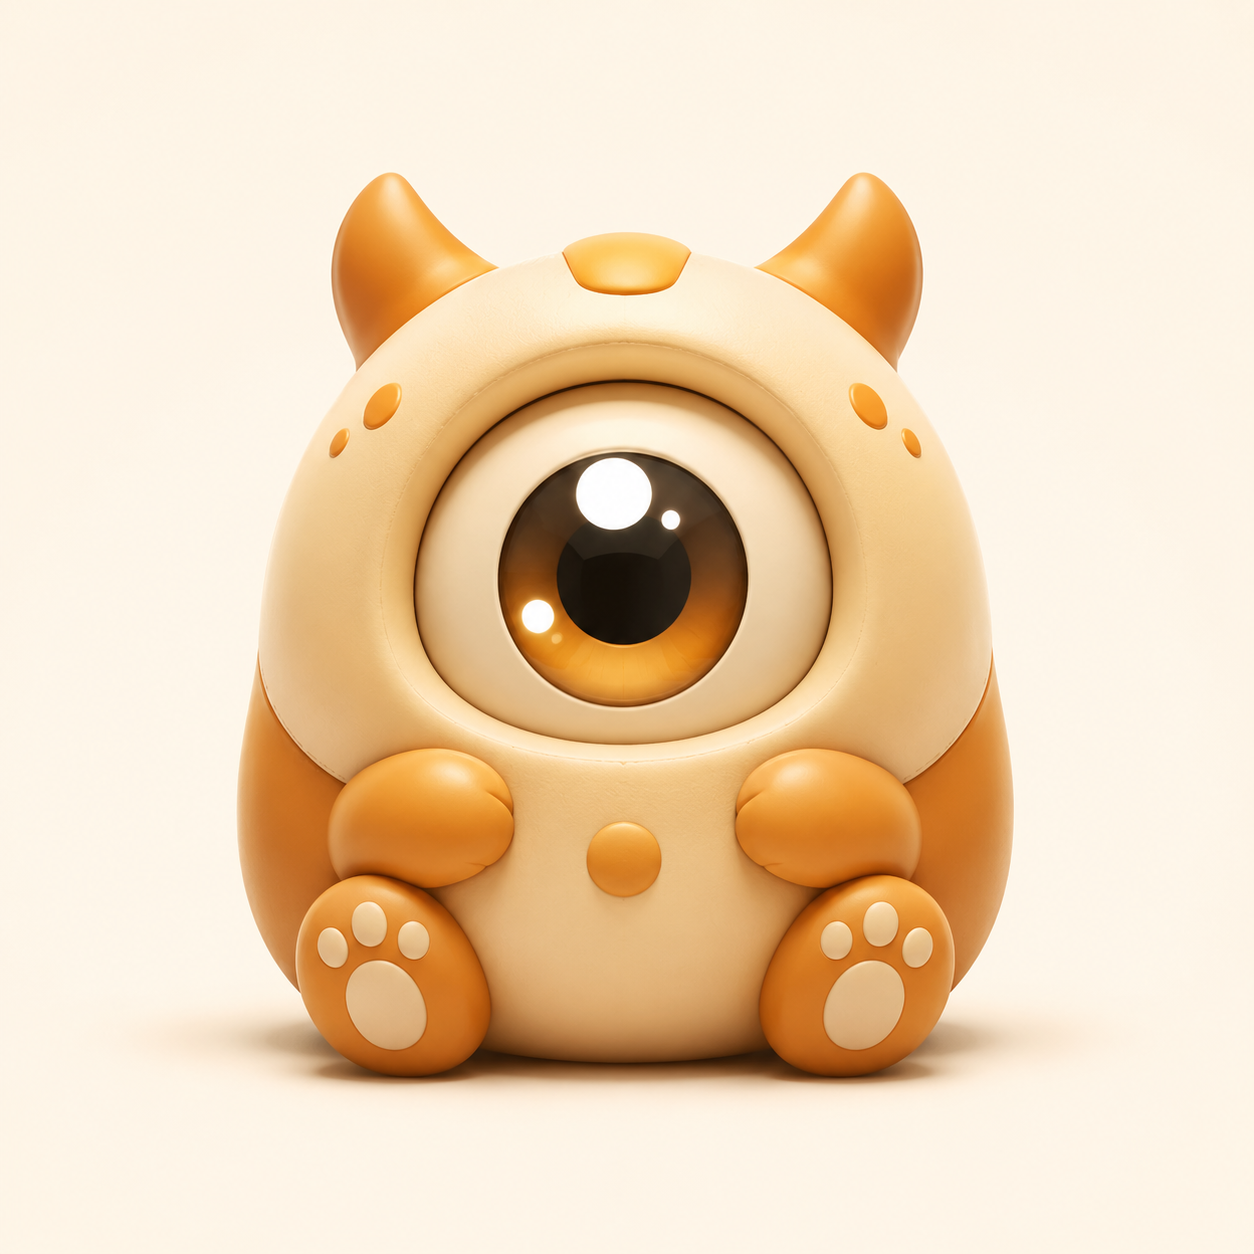
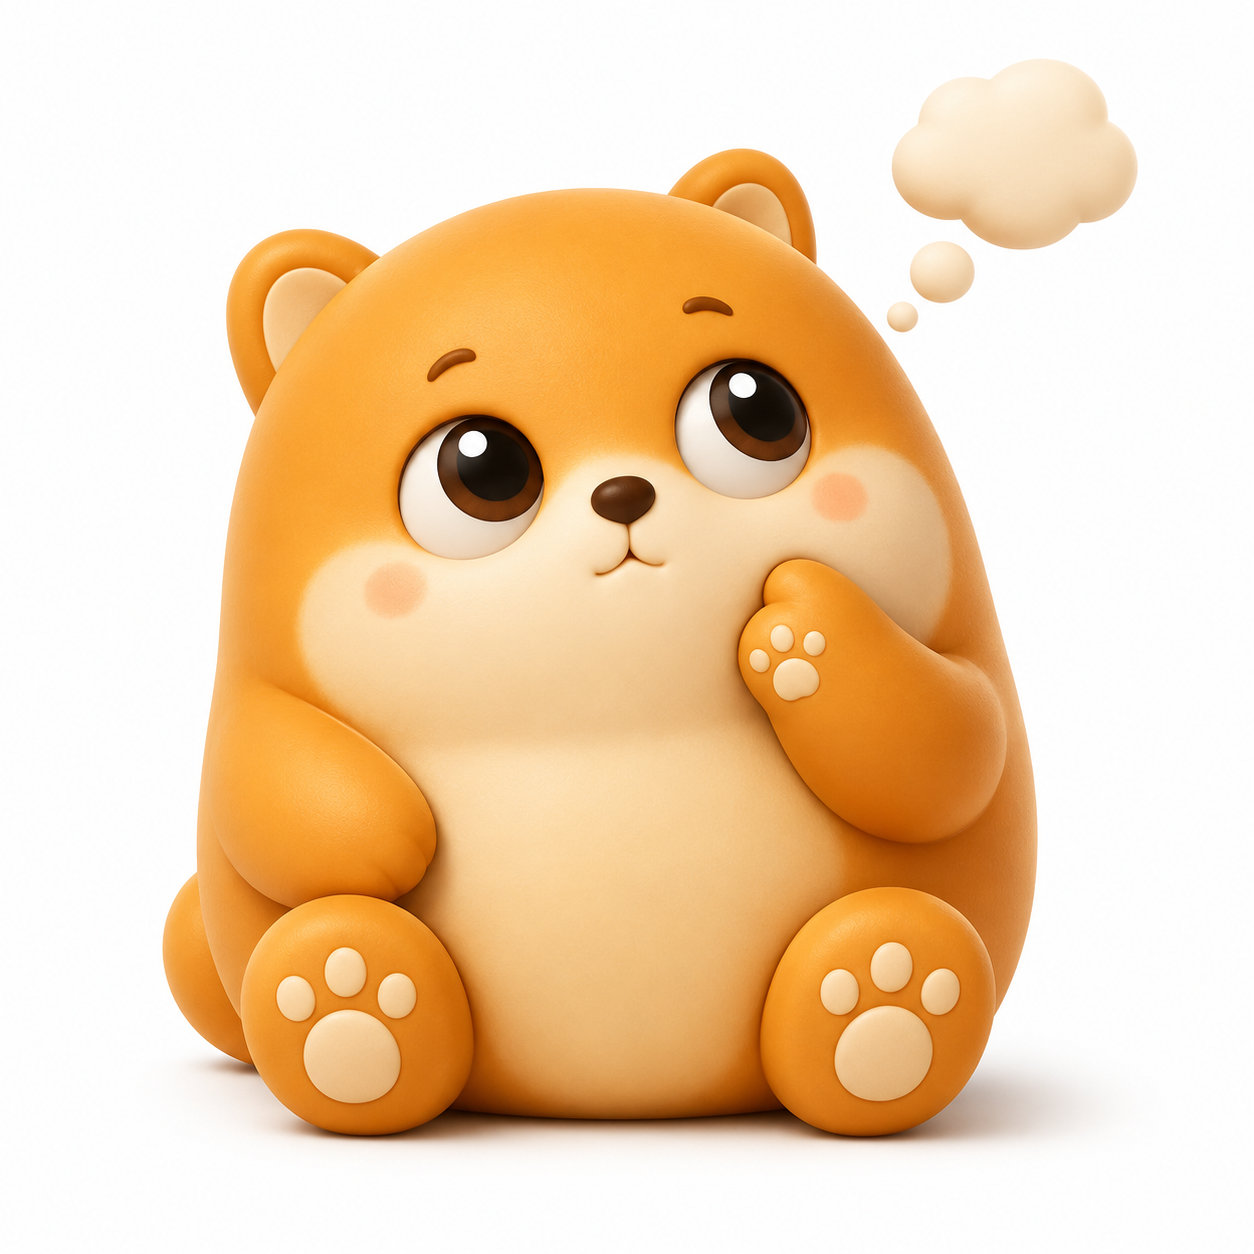
修复 thinking 独眼图为双眼版 + 新增 demo 动图
- 重生 thinking 状态图为双眼版（原图误用了独眼+米色方底，导致桌宠思考时变独眼）
- 新增 assets/coda-demo.gif：5 状态叙事循环（睡觉→待机→思考→报错→完成欢呼）
- README 中英主版 hero 改用 demo 动图展示

diff --git a/README.md b/README.md
@@ -30,7 +30,7 @@
 </p>
 
 <p align="center">
-  <img src="assets/icon.png" width="220" alt="小哒 Coda — 一只替你盯着 AI 编码 Agent 干活的桌面小精灵。">
+  <img src="assets/coda-demo.gif" width="420" alt="小哒 Coda — 一只替你盯着 AI 编码 Agent 干活的桌面小精灵。睡觉 → 待机 → 思考 → 报错 → 完成欢呼，跟着 Claude Code / Codex / Cursor 的实时状态变脸。">
 </p>
 
 **小哒 Coda** 蹲在你的桌面上，实时盯着 AI 编码 Agent 在做什么 —— 发起一个长任务，转身去忙别的，等小哒告诉你「干完了」再回来。

diff --git a/README.zh-CN.md b/README.zh-CN.md
@@ -27,7 +27,7 @@
 </p>
 
 <p align="center">
-  <img src="assets/hero.gif" alt="Clawd 桌宠动画演示：像素螃蟹会随 AI 编程助手状态实时切换，在睡觉、思考、工具运行时打字、单个子代理时戴耳机律动、多个子代理并行时三球杂耍、权限请求弹出时提醒、任务完成后庆祝。支持 Claude Code、Codex、Cursor、Copilot、Gemini、Antigravity、Qwen、CodeWhale、Pi、OpenClaw 等。">
+  <img src="assets/coda-demo.gif" width="420" alt="小哒 Coda 桌宠动画演示：随 AI 编程助手状态实时切换 —— 睡觉 → 待机 → 思考 → 报错 → 完成欢呼。支持 Claude Code、Codex、Cursor、Copilot、Gemini 等。">
 </p>
 
 Clawd 住在你的桌面上，实时感知 AI 编程助手正在做什么。发起一个长任务，起身去做点别的，等螃蟹告诉你任务完成了再回来。